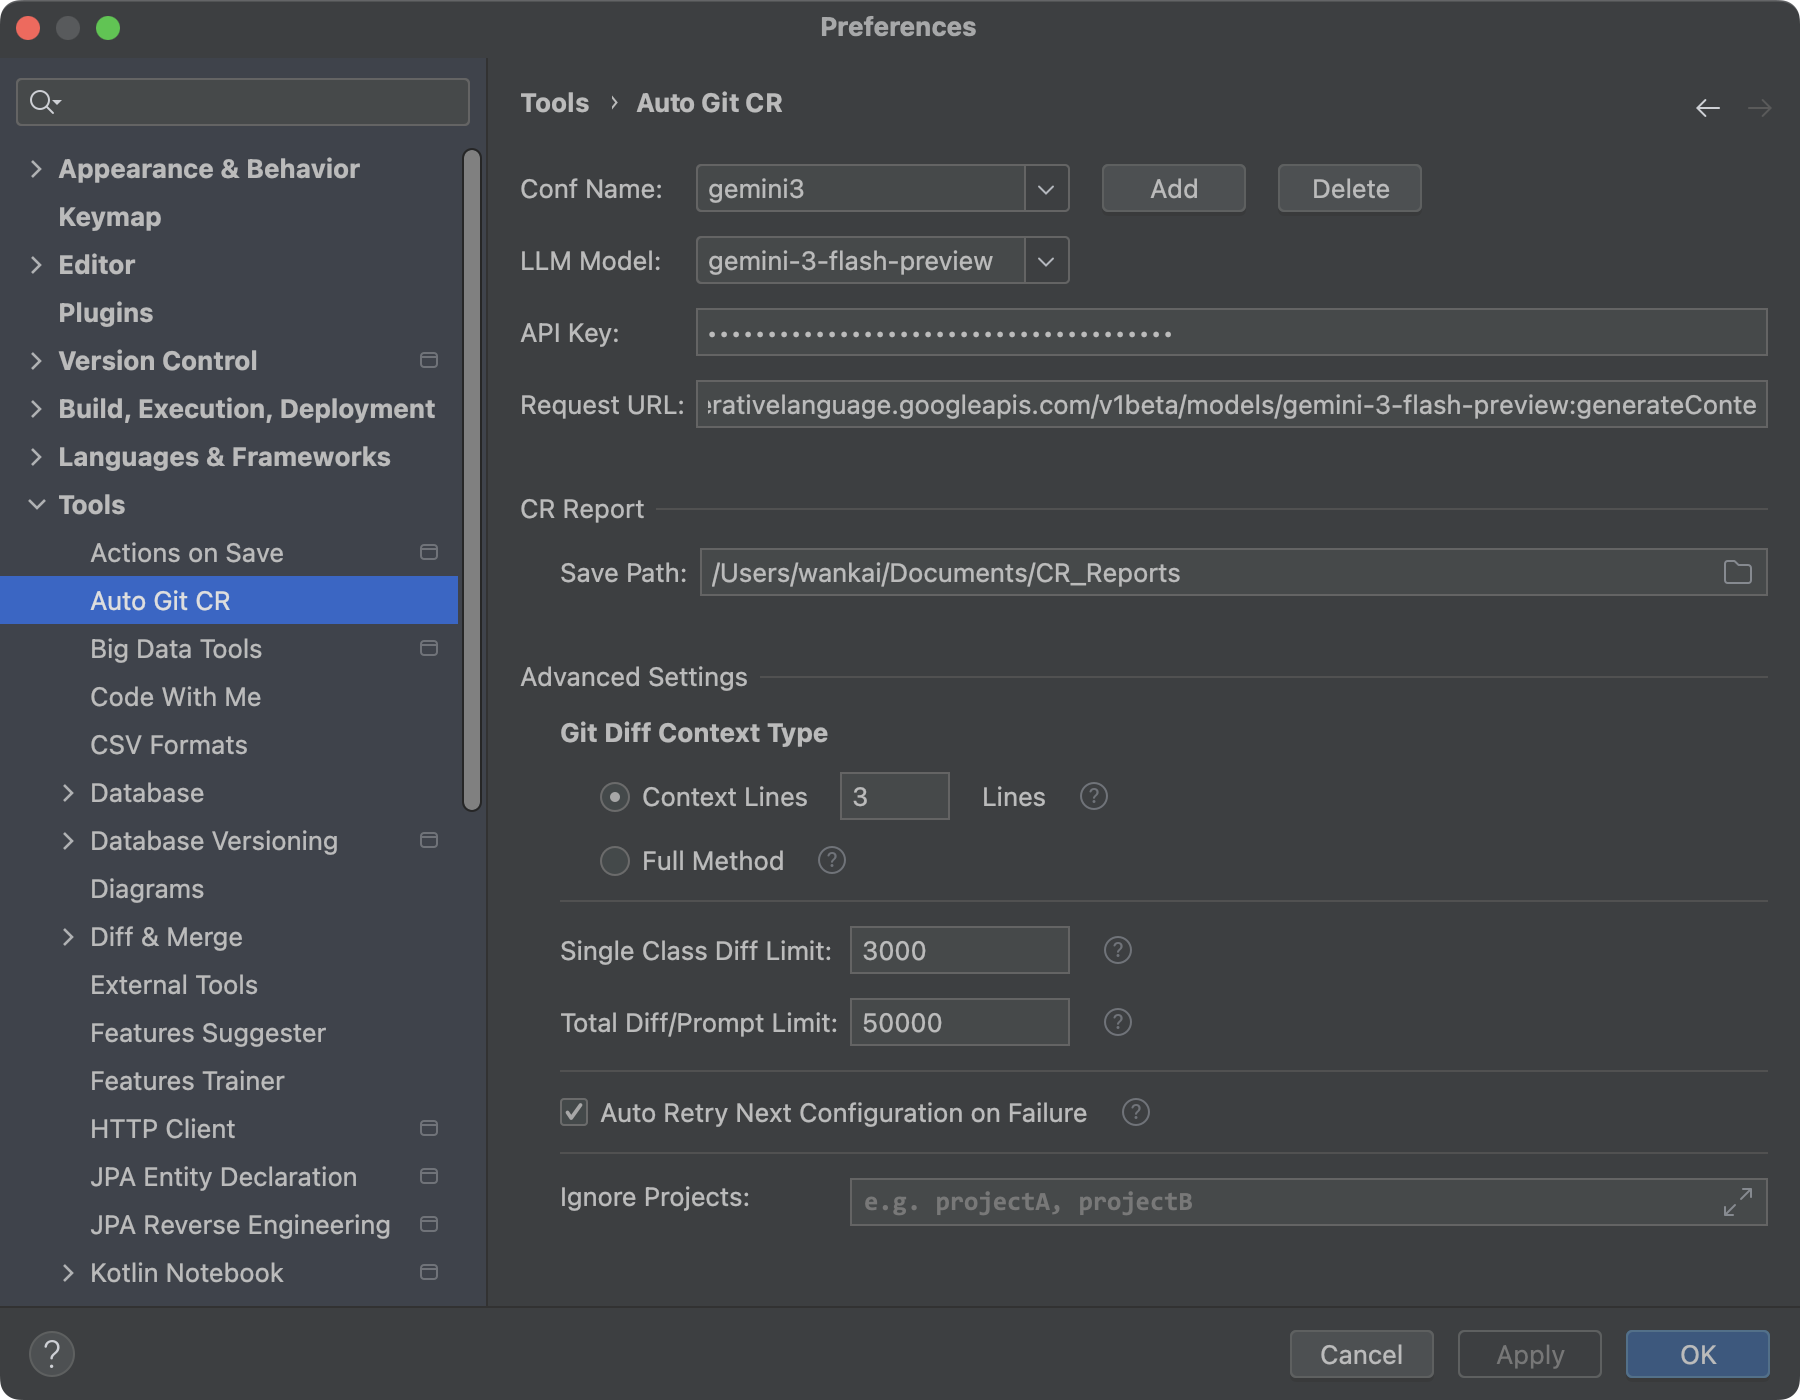
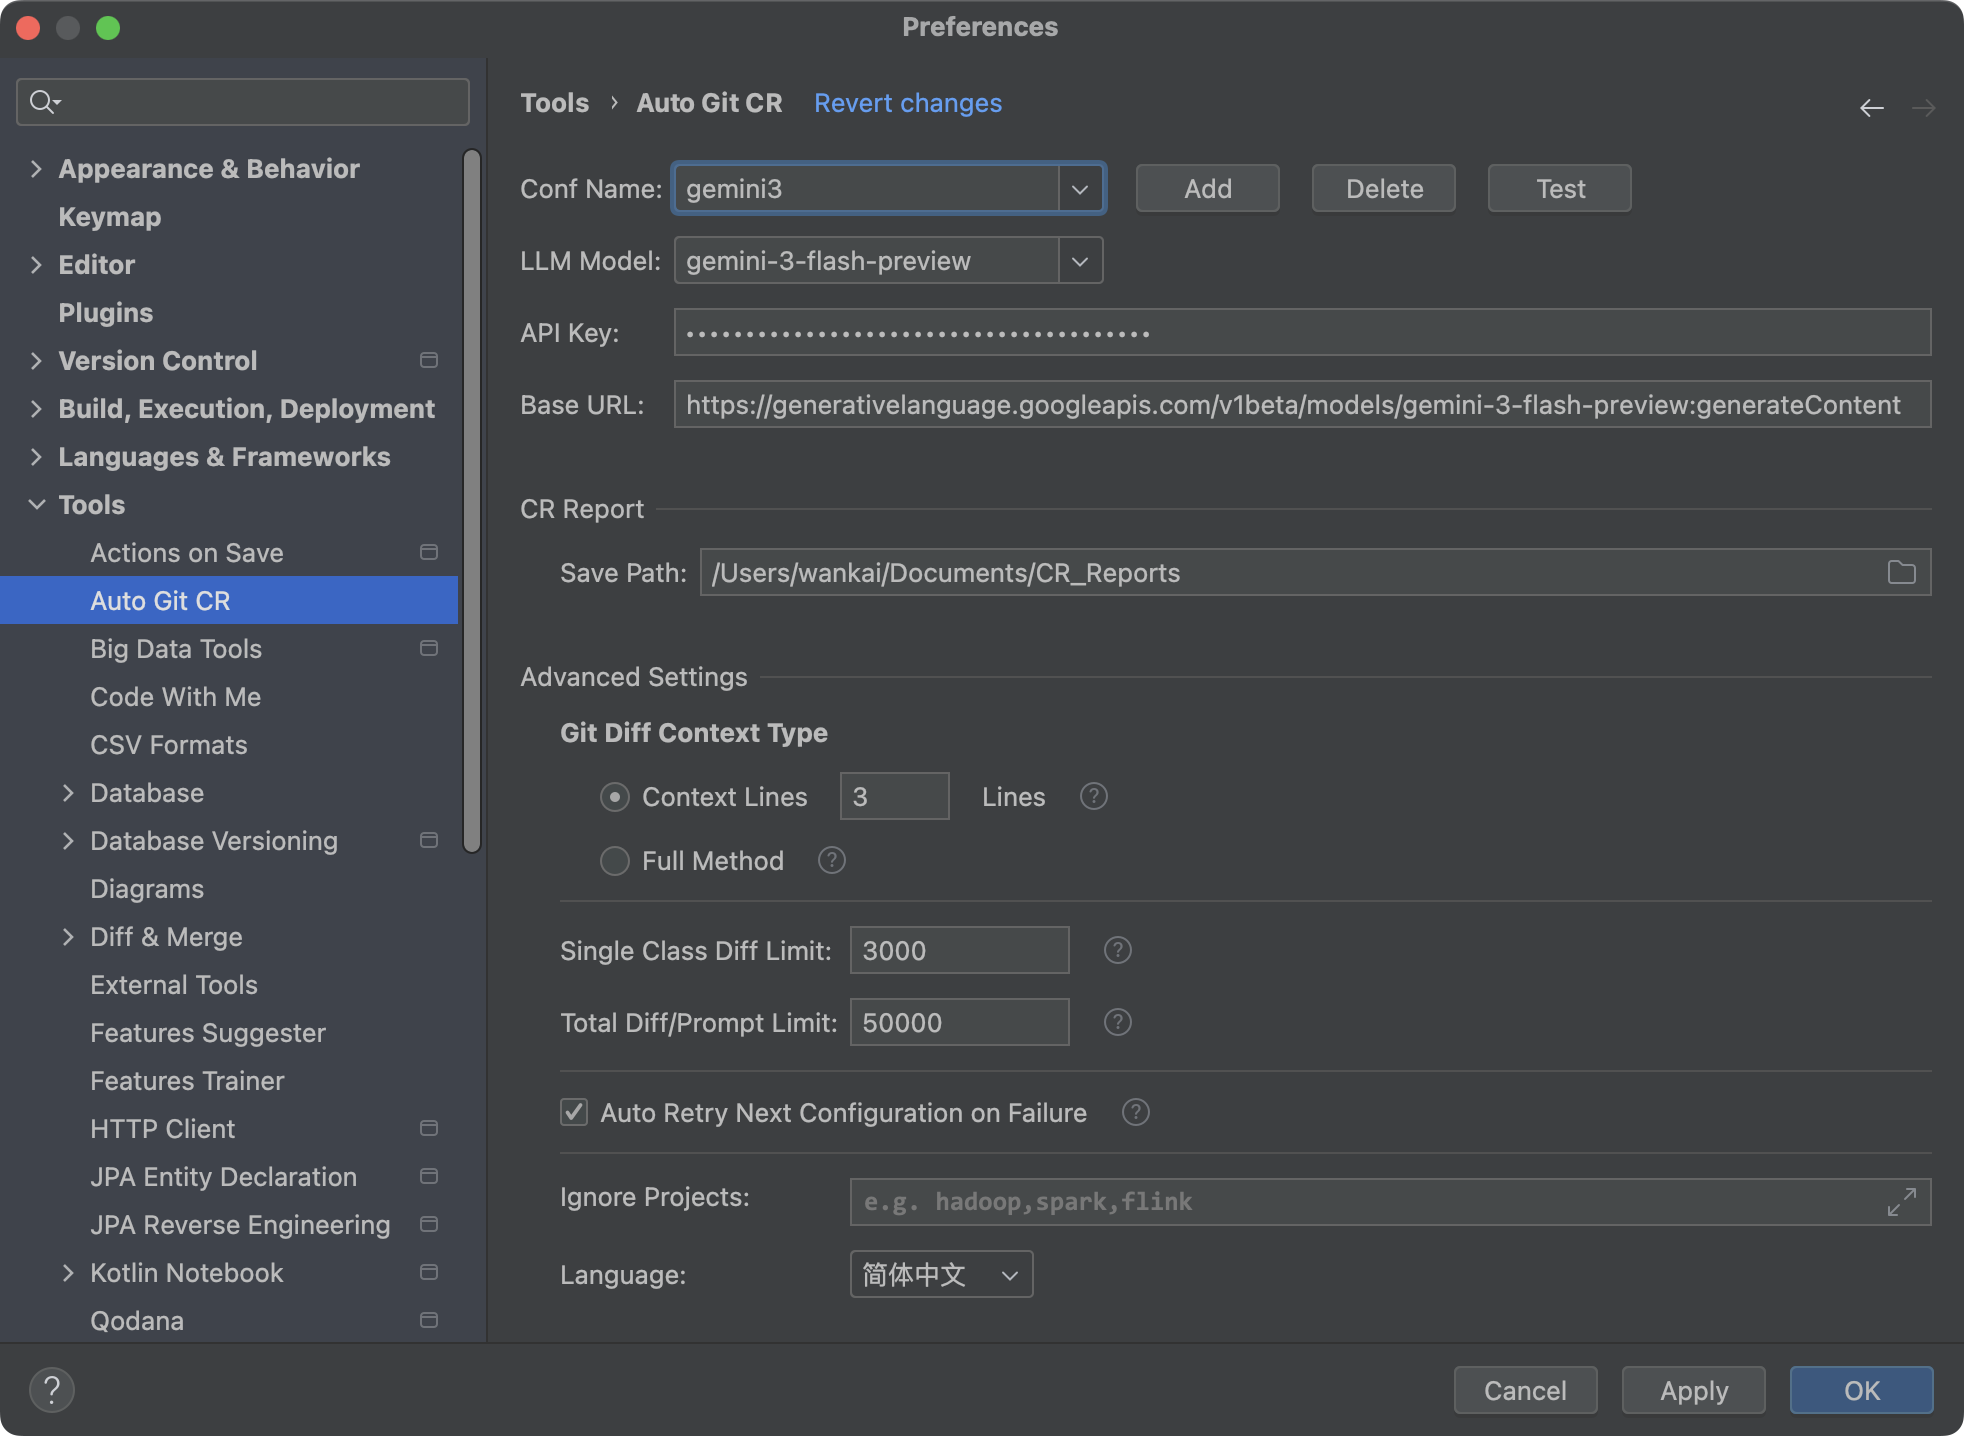
readme更新

diff --git a/AutoGitCrReadMe.md b/AutoGitCrReadMe.md
@@ -15,11 +15,14 @@
 ### 🚀 核心功能
 
 - ✅ **自动触发** - Git提交后自动执行代码评审
-- ✅ **多模型支持** - 原生支持 Gemini、OpenAI、Claude、**Dify (Agent)** 等主流模型
+- ✅ **多模型支持** - 支持自定义模型 Gemini、OpenAI、Claude、Qwen 等各类主流模型
 - ✅ **智能重试** - 配置多套 Key/模型，失败时自动切换尝试下一套配置
 - ✅ **纯 Kotlin 实现** - IDEA原生推荐开发语言，开箱即用
 - ✅ **Git信息获取** - 自动提取仓库、分支、作者等信息
 - ✅ **智能分析** - 提取重点问题和改进建议
+- ✅ **IDEA原生通知** - 评审完成自动发送通知查看评审摘要
+- ✅ **MD文档持久化存档** - 自动生成MD文档留档
+- ✅ **多语言支持** - 支持切换中英文
 
 ### 🧠 智能 Diff 处理机制
 
